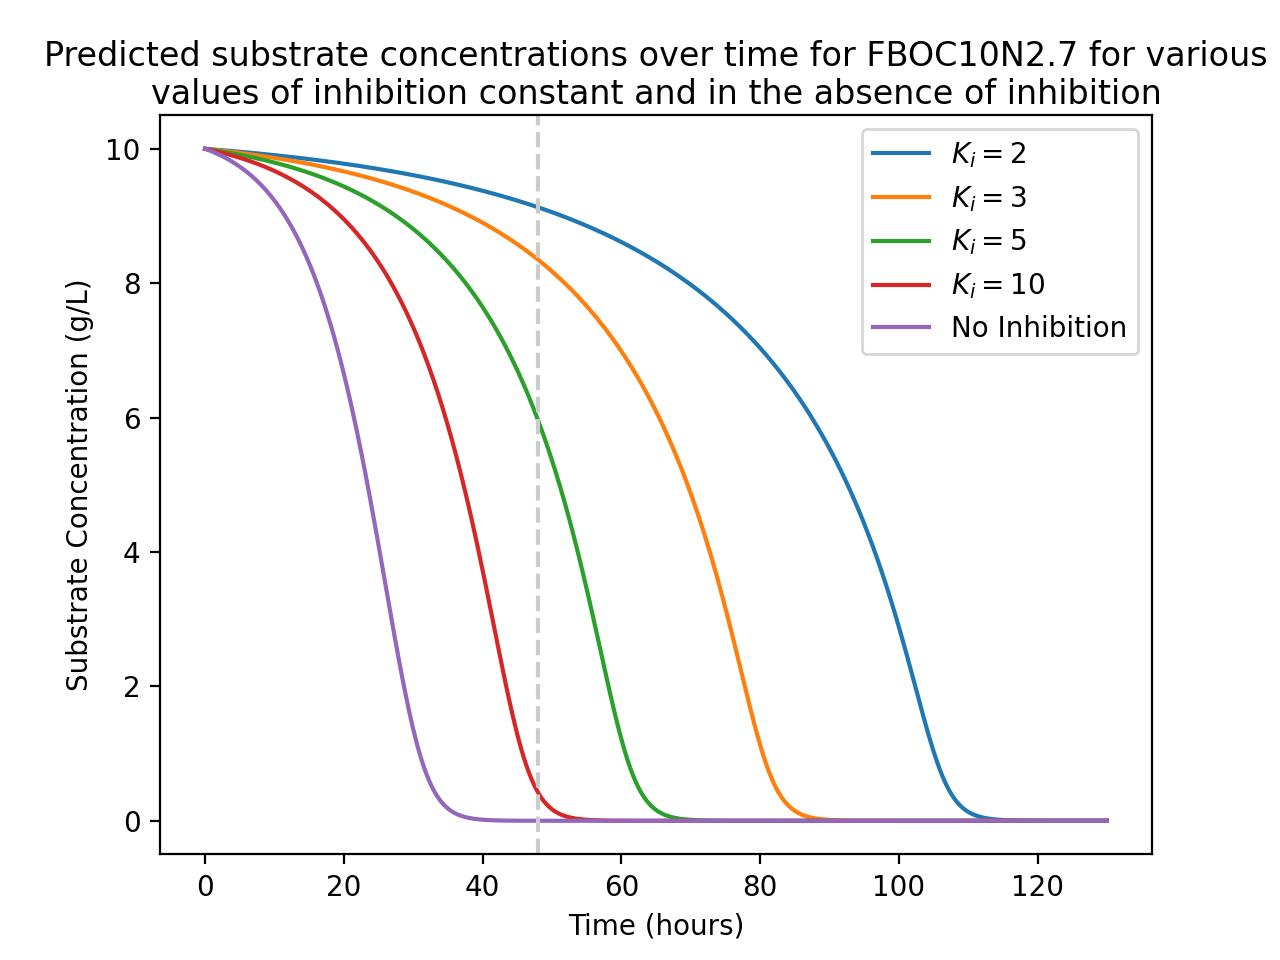
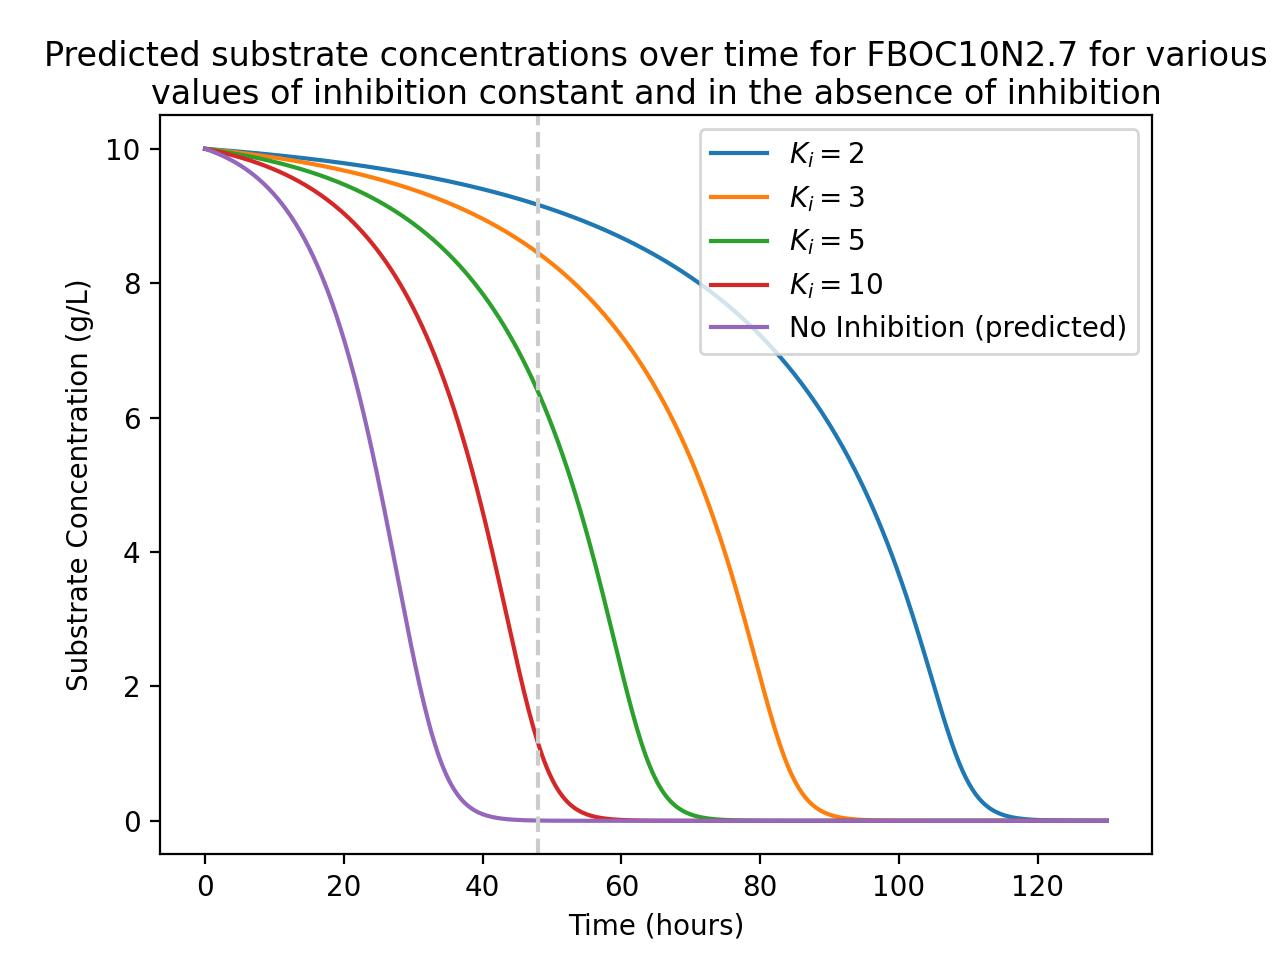
Add product and zero inhibition curves to model 2

diff --git a/2_FBOC10N2_7.py b/2_FBOC10N2_7.py
@@ -7,7 +7,8 @@ import matplotlib.pyplot as plt
 import numpy as np
 from scipy.integrate import odeint
 from lmfit import Parameters, fit_report, minimize
-from control import fit_report_toggle
+from control import fit_report_toggle, show_fig
+from inhibition import plot_inhibition_curves, haldane_with_products, monod
 
 mic_name = 'FBOC10N2.7'
 print( '\n'*2, 'Summary of params used for species ', mic_name)
@@ -24,62 +25,43 @@ Xy = np.array([0.08, 0.129, 0.235, 0.309, 0.32, 0.583, 0.709, 1.457, 1.833, 2.82
 X0 = Xy[0] #0.04 #g/L
 S0 = 10 #g/L # check glycerol
 P0 = 0 #g/
+b0 = [X0, S0, P0]
 
 umax = 0.18 #/h
 Ks = 18.35 #19.8 #g/L
 Yxs = 0.212 # 0.047 #0.71#0.0732
+Yps = 0.6
 
 params = Parameters()
 params.add('umax', value= umax, min=0, vary=False)
 params.add('Ks', value= Ks, min=0, vary=True)
 params.add('Yxs', value= Yxs, min=0, vary=True)
+params.add('Yps', value= Yps, min=0, vary=True)
 
-
-def CONTOIS(f,t, umax, Ks, Yps, Yxs):
-    X = f[0]
-    S = f[1]
-    P = f[2]
-
-    u = umax*(S/(Ks*X+S))
-    #u = umax*(S/(Ks+S))
-    ddt0 = u*X #dXdt
-    ddt1 = -ddt0/Yxs   #dSdt
-    ddt2 = -ddt1*Yps
-
-    ddt = [ddt0, ddt1, ddt2]
-    return ddt
-
-def MONOD(f, t, umax, Ks, Yxs):
-    X = f[0]
-    S = f[1]
-
-    u = umax*(S/(Ks+S))
-    ddt0 = u*X           # dXdt
-    ddt1 = -ddt0/Yxs    # dSdt     strictly growth associated growth, cell maintenance
-
-    ddt = [ddt0, ddt1]
-    return ddt
+##############################################################################
 
 
 def regress(params):
     umax = params['umax'].value
     Ks = params['Ks'].value
+    Yps = params['Yps'].value
     Yxs = params['Yxs'].value
 
-    c = odeint(MONOD, b0,tx, args=(umax, Ks, Yxs))
+    c = odeint(monod, b0,tx, args=(umax, Ks, Yps, Yxs))
     cX = c[:, 0]
     I = (Xy - cX)**2
     # I = Py - cP
     #weight = [1, 1, 10, 10, 10, 10, 20, 20, 1, 1, 1, 1, 1, 1, 10, 1, 1, 1, 1, 1, 10]
-    weight = [1, 1, 1, 1, 1, 2, 2, 1, 1, 5, 5]
-    I = ((Xy - cX) * weight) ** 2
+    # weight = [1, 1, 1, 1, 1, 2, 2, 1, 1, 5, 5]
+    # I = ((Xy - cX) * weight) ** 2
+
+    I = ((Xy - cX)) ** 2
+
     return I
 
-b0 = [X0, S0]
-t = np.linspace(1e-5,tx[-1],151)
 
 METHOD = 'Nelder'
-result = minimize(regress,params, method=METHOD)
+result = minimize(regress, params, method=METHOD)
 result.params.pretty_print()
 if fit_report_toggle:
     print(fit_report(result))
@@ -90,12 +72,13 @@ if(fit_data == 1):
     umax = result.params['umax'].value
     Ks = result.params['Ks'].value
     Yxs = result.params['Yxs'].value
+    Yps = result.params['Yps'].value
 
 
-g = odeint(MONOD,b0,t, args=(umax, Ks, Yxs))
-cX = g[:,0]
-cS = g[:,1]
-print(len(tx))
+# g = odeint(monod, b0, t, args=(umax, Ks, Yxs))
+# cX = g[:,0]
+# cS = g[:,1]
+# print(len(tx))
 
 # plt.figure()
 # plt.plot(t,cX,'--b')
@@ -116,33 +99,51 @@ print(len(tx))
 
 # plt.show()
 
-
+#######################################################################################
 
 # Plot inhibition curves
 
-from inhibition import plot_inhibition_curves, haldane
-from control import show_fig
-
 xvline = 48
 times = sorted( np.concatenate( ([xvline], np.linspace(1e-5, 130, 400)) ) )
-# add more points
-
 Kis = [2, 3, 5, 10]
-args = (umax, Ks, Yxs)
+args = (umax, Ks, Yps, Yxs)
 
-g = odeint(MONOD, b0, times, args=args)
+g = odeint(monod, b0, times, args=args)
 cX_no_inhib = g[:,0] # Biomass concentration
 cS_no_inhib = g[:,1] # Substrate concentration
+cP_no_inhib = g[:,2] # Product concentration
 
+# Plot inhibition curves
 plot_inhibition_curves(
     times,
     b0,
     Kis,
     args,
-    haldane,
+    haldane_with_products,
     mic_name,
     cX_no_inhib=cX_no_inhib,
     cS_no_inhib=cS_no_inhib,
+    cP_no_inhib=cP_no_inhib,
+    xvline=xvline,
+    show_fig=show_fig,
+    cX_measured=Xy,
+    # cS_measured=Sy,
+    measurement_times=tx
+)
+
+# Plot zero inhibition curves
+Kis = []
+times = sorted( np.concatenate( ([xvline], np.linspace(1e-5, 130, 400)) ) )
+plot_inhibition_curves(
+    times,
+    b0,
+    Kis,
+    args,
+    haldane_with_products,
+    mic_name,
+    cX_no_inhib=cX_no_inhib,
+    cS_no_inhib=cS_no_inhib,
+    cP_no_inhib=cP_no_inhib,
     xvline=xvline,
     show_fig=show_fig,
     cX_measured=Xy,

diff --git a/1a_PC8R7N2_1.py b/1a_PC8R7N2_1.py
@@ -77,9 +77,9 @@ if(fit_data == 1):
     Yps = result.params['Yps'].value
 
 
-g = odeint(monod, b0,t, args=(umax, Ks, Yps, Yxs))
-cX = g[:,0]
-cS = g[:,1]
+# g = odeint(monod, b0,t, args=(umax, Ks, Yps, Yxs))
+# cX = g[:,0]
+# cS = g[:,1]
 # print(len(tx))
 
 
@@ -108,7 +108,7 @@ cS = g[:,1]
 
 xvline = 48
 times = sorted( np.concatenate( ([xvline], np.linspace(1e-5, 180)) ) )
-Kis = [] # [2, 3, 5, 10]
+Kis = [2, 3, 5, 10]
 args = (umax, Ks, Yps, Yxs)
 
 g = odeint(monod, b0, times, args=args)
@@ -116,6 +116,7 @@ cX_no_inhib = g[:,0] # Biomass concentration
 cS_no_inhib = g[:,1] # Substrate concentration
 cP_no_inhib = g[:,2] # Product concentration
 
+# Plot inhibition curves
 plot_inhibition_curves(
     times,
     b0,
@@ -133,3 +134,21 @@ plot_inhibition_curves(
     measurement_times=tx
 )
 
+# Plot zero inhibition curves
+Kis = []
+plot_inhibition_curves(
+    times,
+    b0,
+    Kis,
+    args,
+    haldane_with_products,
+    mic_name,
+    cX_no_inhib=cX_no_inhib,
+    cS_no_inhib=cS_no_inhib,
+    cP_no_inhib=cP_no_inhib,
+    xvline=xvline,
+    show_fig=show_fig,
+    cX_measured=Xy,
+    # cS_measured=Sy,
+    measurement_times=tx
+)
